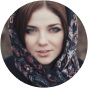
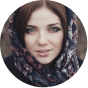
finishing style of the header.

diff --git a/4Project_DevPage/styles/header.css b/4Project_DevPage/styles/header.css
@@ -1,18 +1,56 @@
 header{
-    background-image: url(../assets/Backgrounds/Background_Intro.png);
-    object-fit: cover;
-    box-sizing: border-box;    
-    padding: 120px 163px 183px;
+    max-width: 1366px;
+    max-height: 750px;
+    background: url(../assets/Backgrounds/Background_Intro.png) center/100%;
+    padding: 120px 163px;
 
-    /* section{
-        display: inline-block;
-        max-width: 680px;
-        text-align: center;
-    } */
+    display: grid;
+    justify-items: center;
+    
+}
 
-    h1{
-        font: var(--h1);
-        color: var(--gray-600);
+.profile{
+    justify-items: center;
+    padding-bottom: 80px;
+
+    .avatar{
+        display: flex;
+        width: 112px;
+        height: 112px;
+        position: relative;
+
+        #profile_avatar{
+            object-fit: cover;
+            border-radius: 999px;
+            border: solid 3px var(--red);
+            /* margin-bottom: 56px; */
+        }
+        
+        figcaption{
+            img{
+                position: absolute;
+                width: 32px;
+                height: 32px;
+                bottom: 0;
+                right: 0;
+                z-index: 10;
+            }
+        }
+    }
+
+    .about-me{
+        justify-items: center;
+        
+        h1{
+            font: var(--h1);
+            color: var(--gray-600);
+            padding-block: 8px 20px;
+            letter-spacing: 2px;
+        }
+
+        #red-text{
+            color: var(--red);
+        }
     }
 
     div:nth-child(2){
@@ -20,39 +58,42 @@ header{
             font: var(--text_sm);
             color: var(--gray-400);
         }
+    }
 
-        padding-bottom: 80px;
+    #subtitle-font{
+        padding-top: 56px;
+        font: var(--subtitle);
+        color: var(--gray-500);
     }
 }
 
-#subtitle-font{
-    font: var(--subtitle);
-    color: var(--gray-500);
 
-}
-
-.avatar{
-    img:first-child{
-        position: relative;
-        border-radius: 999px;
-        border: solid 3px var(--red);
-        margin-bottom: 56px;
-    }
-
-    figcaption{
-        position: absolute;
-    }
-}
-
-span{
-    display: flex;
-    align-items: center;
-    background-color: var(--gray-300);
-    border-radius: 999px;
-}
 
 .skills{
     display: flex;
     gap: 16px;
+    justify-content: center;
+    padding-bottom: 94px;
+
+    span{
+        height: 40px;
+        box-sizing: border-box;
+        display: flex;
+        align-items: center;
+        background-color: var(--gray-300);
+        border-radius: 999px;
+        padding: 8px 16px;
+        gap: 8px;
+    
+        p{
+            font: var(--text_md);
+            color: var(--gray-500);
+        }
+    }
+}
+
+.container{
+    display: flex;
+    justify-content: center;
     align-content: center;
 }

diff --git a/4Project_DevPage/index.html b/4Project_DevPage/index.html
@@ -14,7 +14,7 @@
     <header>
         <section class="profile">
             <figure class="avatar">
-                <img src="assets/profile.jpg" alt="Profile Image">
+                <img id="profile_avatar" src="assets/profile.jpg" alt="Profile Image">
                 <figcaption>
                     <img src="assets/icons/coding.svg" alt="Web Code Icon">
                 </figcaption>
@@ -22,11 +22,11 @@
             <div class="about-me">
                 <div>
                     <p id="subtitle-font">
-                        Hello, World! Meu nome é Martina Santos e sou
+                        Hello, World! Meu nome é <span id="red-text">Martina Santos</span> e sou
                     </p>
                 </div>
-                    <h1>Desenvolvedor Fullstack</h1>
-                <p>Transformo necessidades em aplicações reais, evolventes e funcionais. Desenvolvo sistemas através da minha paixão pela tecnologia, contribuindo com soluções inovadoras e eficazes para desafios complexos.</p>
+                    <h1>Desenvolvedora Fullstack</h1>
+                <p>Transformo necessidades em aplicações reais, evolventes e funcionais. Desenvolvo sistemas através da <br>minha paixão pela tecnologia, contribuindo com soluções inovadoras e eficazes para desafios complexos.</p>
             </div>
         </section>
         <div class="skills">
@@ -60,6 +60,7 @@
                 <p>Node.js</p>
             </span>
         </div>
+        <img src="assets/icons/CaretDoubleDown.svg" alt="CaretDoubleDown">
     </header>
 
     <main>

diff --git a/4Project_DevPage/styles/global.css b/4Project_DevPage/styles/global.css
@@ -34,9 +34,6 @@
 body{
     max-width: 1366px;
     max-height: 2934px;
-    
-}
-
-img{
-    max-width: 100%;
+    margin: auto;
+    border: solid black;
 }
